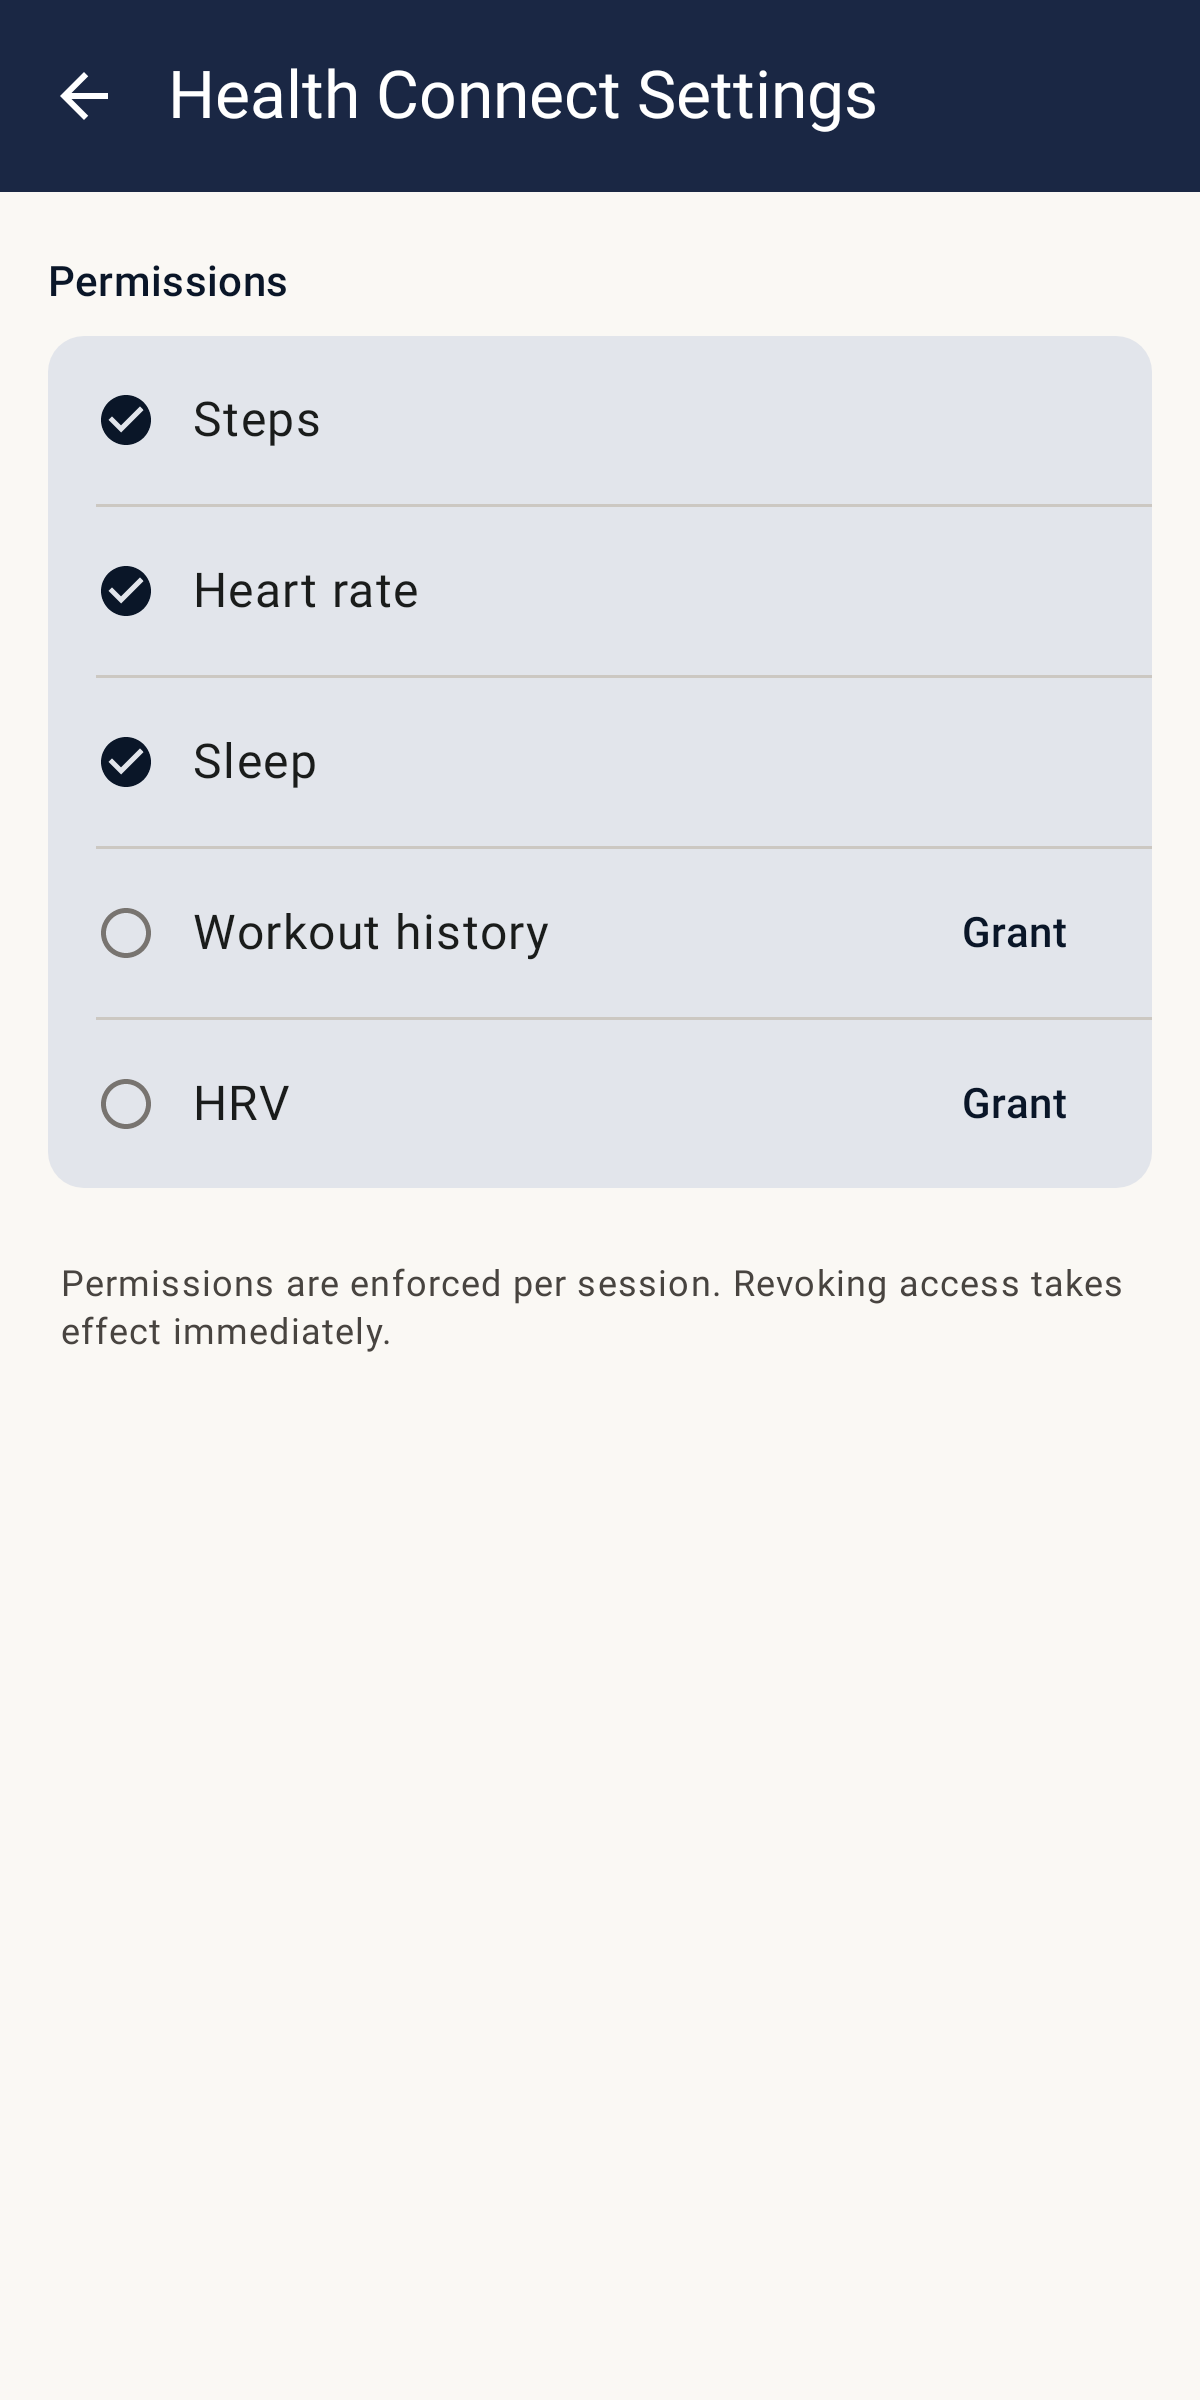
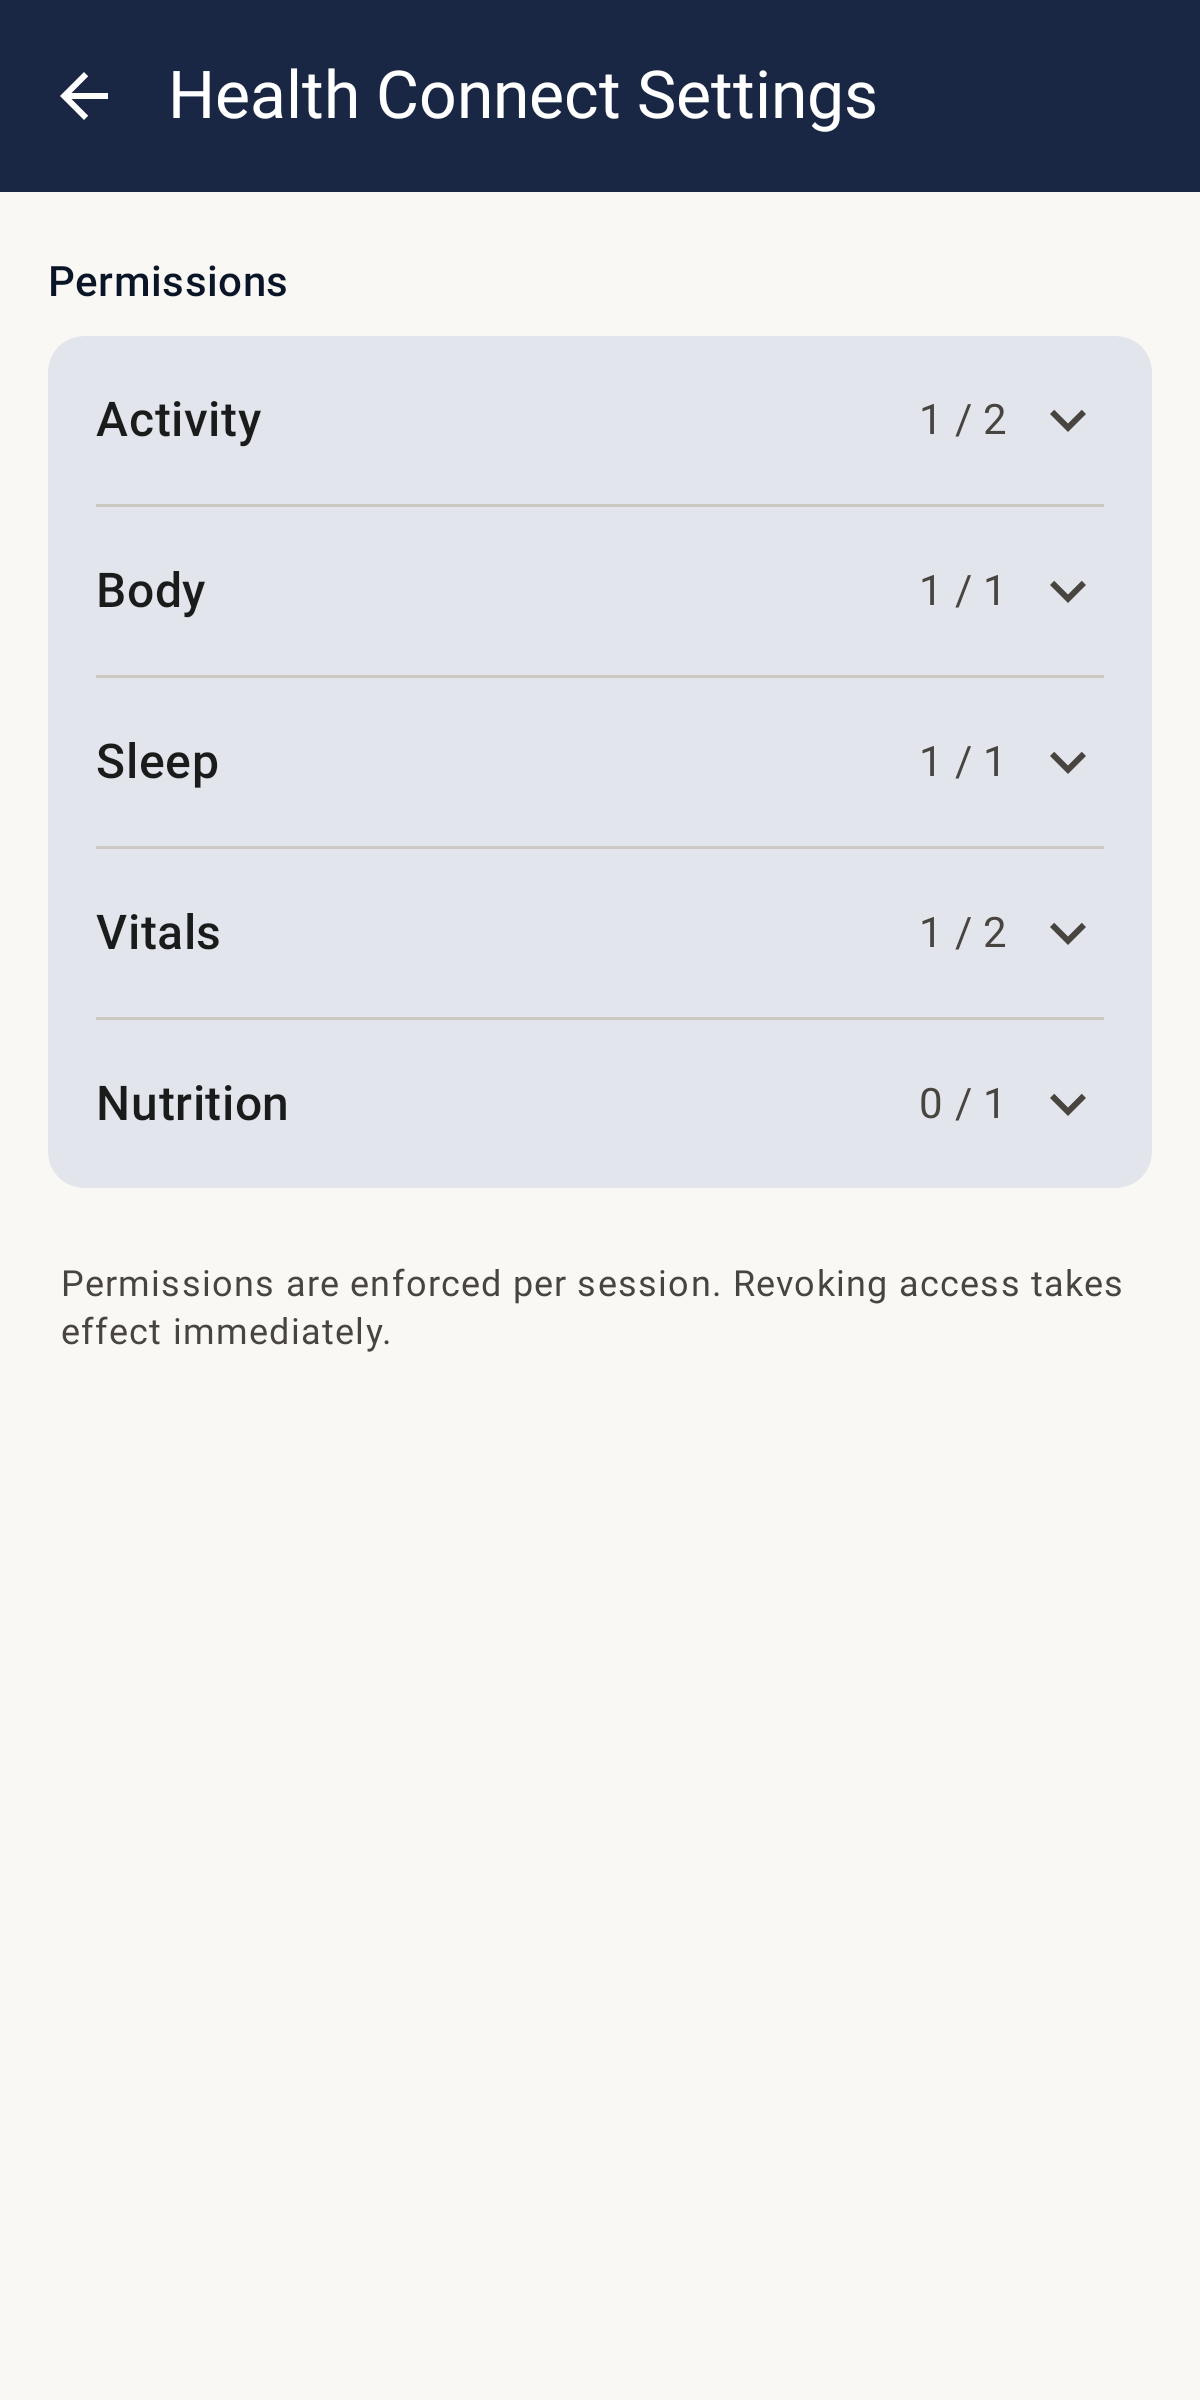
Fix #60: Make HealthConnect settings permissions list collapsible (default collapsed)
Group permissions by RecordCategory (Activity, Body, Sleep, Vitals,
Nutrition) and render each category as a clickable header row with a
granted/total count and an ExpandLess/ExpandMore chevron. All sections
default to collapsed so the screen stays compact; tapping a header
reveals that section's permission rows with a vertical expand animation.

- Add category field to HealthPermission (default ACTIVITY for backwards
  compatibility).
- Group permissions in HealthConnectSettingsScreen via toSortedMap on
  RecordCategory ordinal so the order is stable.
- Per-section expanded state held in a remembered mutableStateMapOf
  keyed by category.
- Update screenshot state to cover all five categories and regenerate
  goldens.

diff --git a/app/src/main/java/com/rousecontext/app/ui/screens/HealthConnectSettingsScreen.kt b/app/src/main/java/com/rousecontext/app/ui/screens/HealthConnectSettingsScreen.kt
@@ -3,17 +3,23 @@ package com.rousecontext.app.ui.screens
 import androidx.compose.animation.AnimatedVisibility
 import androidx.compose.animation.expandVertically
 import androidx.compose.animation.shrinkVertically
+import androidx.compose.foundation.clickable
 import androidx.compose.foundation.layout.Column
+import androidx.compose.foundation.layout.Row
 import androidx.compose.foundation.layout.Spacer
+import androidx.compose.foundation.layout.defaultMinSize
 import androidx.compose.foundation.layout.fillMaxSize
 import androidx.compose.foundation.layout.fillMaxWidth
 import androidx.compose.foundation.layout.height
 import androidx.compose.foundation.layout.padding
+import androidx.compose.foundation.layout.width
 import androidx.compose.foundation.rememberScrollState
 import androidx.compose.foundation.verticalScroll
 import androidx.compose.material.icons.Icons
 import androidx.compose.material.icons.automirrored.filled.ArrowBack
 import androidx.compose.material.icons.filled.CheckCircle
+import androidx.compose.material.icons.filled.ExpandLess
+import androidx.compose.material.icons.filled.ExpandMore
 import androidx.compose.material.icons.filled.RadioButtonUnchecked
 import androidx.compose.material3.Card
 import androidx.compose.material3.ExperimentalMaterial3Api
@@ -27,9 +33,10 @@ import androidx.compose.material3.TopAppBar
 import androidx.compose.runtime.Composable
 import androidx.compose.runtime.Immutable
 import androidx.compose.runtime.getValue
-import androidx.compose.runtime.mutableStateOf
+import androidx.compose.runtime.mutableStateMapOf
 import androidx.compose.runtime.remember
 import androidx.compose.runtime.setValue
+import androidx.compose.ui.Alignment
 import androidx.compose.ui.Modifier
 import androidx.compose.ui.tooling.preview.Preview
 import androidx.compose.ui.unit.dp
@@ -38,10 +45,15 @@ import com.rousecontext.app.ui.components.ListRowWithIcon
 import com.rousecontext.app.ui.components.SectionHeader
 import com.rousecontext.app.ui.components.appBarColors
 import com.rousecontext.app.ui.theme.RouseContextTheme
+import com.rousecontext.mcp.health.RecordCategory
 import com.rousecontext.mcp.health.RecordTypeRegistry
 
 @Immutable
-data class HealthPermission(val name: String, val granted: Boolean)
+data class HealthPermission(
+    val name: String,
+    val granted: Boolean,
+    val category: RecordCategory = RecordCategory.ACTIVITY
+)
 
 @Immutable
 data class HealthConnectSettingsState(val permissions: List<HealthPermission> = emptyList())
@@ -77,51 +89,41 @@ fun HealthConnectSettingsScreen(
 
             SectionHeader("Permissions")
 
-            val collapsedCount = 3
-            var expanded by remember { mutableStateOf(false) }
-            val showToggle = state.permissions.size > collapsedCount
-            val visiblePermissions = if (expanded || !showToggle) {
+            val grouped = remember(state.permissions) {
                 state.permissions
-            } else {
-                state.permissions.take(collapsedCount)
+                    .groupBy { it.category }
+                    .toSortedMap(compareBy { it.ordinal })
             }
+
+            // Per-section expanded state. Default: all collapsed.
+            val expandedState = remember { mutableStateMapOf<RecordCategory, Boolean>() }
 
             Card(modifier = Modifier.fillMaxWidth()) {
                 Column {
-                    visiblePermissions.forEachIndexed { index, permission ->
-                        PermissionRow(permission, onGrantPermission)
-                        if (index < visiblePermissions.lastIndex) {
-                            ListDivider()
-                        }
-                    }
-                    AnimatedVisibility(
-                        visible = expanded && showToggle,
-                        enter = expandVertically(),
-                        exit = shrinkVertically()
-                    ) {
-                        Column {
-                            state.permissions.drop(collapsedCount)
-                                .forEachIndexed { index, permission ->
+                    val entries = grouped.entries.toList()
+                    entries.forEachIndexed { index, (category, permissions) ->
+                        val expanded = expandedState[category] ?: false
+                        CategoryHeader(
+                            category = category,
+                            grantedCount = permissions.count { it.granted },
+                            totalCount = permissions.size,
+                            expanded = expanded,
+                            onToggle = { expandedState[category] = !expanded }
+                        )
+                        AnimatedVisibility(
+                            visible = expanded,
+                            enter = expandVertically(),
+                            exit = shrinkVertically()
+                        ) {
+                            Column {
+                                permissions.forEach { permission ->
                                     ListDivider()
                                     PermissionRow(permission, onGrantPermission)
                                 }
+                            }
                         }
-                    }
-                    if (showToggle) {
-                        ListDivider()
-                        TextButton(
-                            onClick = { expanded = !expanded },
-                            modifier = Modifier
-                                .fillMaxWidth()
-                                .padding(horizontal = 8.dp)
-                        ) {
-                            Text(
-                                if (expanded) {
-                                    "Show less"
-                                } else {
-                                    "Show all (${state.permissions.size})"
-                                }
-                            )
+                        if (index < entries.lastIndex) {
+                            ListDivider()
                         }
                     }
                 }
@@ -139,6 +141,41 @@ fun HealthConnectSettingsScreen(
 
             Spacer(modifier = Modifier.height(24.dp))
         }
+    }
+}
+
+@Composable
+private fun CategoryHeader(
+    category: RecordCategory,
+    grantedCount: Int,
+    totalCount: Int,
+    expanded: Boolean,
+    onToggle: () -> Unit
+) {
+    Row(
+        modifier = Modifier
+            .fillMaxWidth()
+            .clickable(onClick = onToggle)
+            .defaultMinSize(minHeight = 56.dp)
+            .padding(horizontal = 16.dp),
+        verticalAlignment = Alignment.CenterVertically
+    ) {
+        Text(
+            text = category.value.replaceFirstChar { it.uppercase() },
+            style = MaterialTheme.typography.titleMedium,
+            modifier = Modifier.weight(1f)
+        )
+        Text(
+            text = "$grantedCount / $totalCount",
+            style = MaterialTheme.typography.bodyMedium,
+            color = MaterialTheme.colorScheme.onSurfaceVariant
+        )
+        Spacer(modifier = Modifier.width(8.dp))
+        Icon(
+            imageVector = if (expanded) Icons.Filled.ExpandLess else Icons.Filled.ExpandMore,
+            contentDescription = if (expanded) "Collapse" else "Expand",
+            tint = MaterialTheme.colorScheme.onSurfaceVariant
+        )
     }
 }
 
@@ -180,7 +217,8 @@ fun HealthConnectSettingsPreview() {
                 permissions = RecordTypeRegistry.allTypes.mapIndexed { index, info ->
                     HealthPermission(
                         name = info.displayName,
-                        granted = index < 3
+                        granted = index < 3,
+                        category = info.category
                     )
                 }
             )

diff --git a/app/src/test/java/com/rousecontext/app/ui/screenshots/ScreenScreenshotTest.kt b/app/src/test/java/com/rousecontext/app/ui/screenshots/ScreenScreenshotTest.kt
@@ -49,6 +49,7 @@ import com.rousecontext.app.ui.theme.RouseContextTheme
 import com.rousecontext.app.ui.viewmodels.NotificationSetupState
 import com.rousecontext.app.ui.viewmodels.OutreachSetupState
 import com.rousecontext.app.ui.viewmodels.UsageSetupState
+import com.rousecontext.mcp.health.RecordCategory
 import org.junit.Rule
 import org.junit.Test
 import org.junit.runner.RunWith
@@ -695,11 +696,17 @@ class ScreenScreenshotTest {
 
     private fun healthConnectSettingsState() = HealthConnectSettingsState(
         permissions = listOf(
-            HealthPermission("Steps", granted = true),
-            HealthPermission("Heart rate", granted = true),
-            HealthPermission("Sleep", granted = true),
-            HealthPermission("Workout history", granted = false),
-            HealthPermission("HRV", granted = false)
+            HealthPermission("Steps", granted = true, category = RecordCategory.ACTIVITY),
+            HealthPermission(
+                "Workout history",
+                granted = false,
+                category = RecordCategory.ACTIVITY
+            ),
+            HealthPermission("Weight", granted = true, category = RecordCategory.BODY),
+            HealthPermission("Sleep", granted = true, category = RecordCategory.SLEEP),
+            HealthPermission("Heart rate", granted = true, category = RecordCategory.VITALS),
+            HealthPermission("HRV", granted = false, category = RecordCategory.VITALS),
+            HealthPermission("Hydration", granted = false, category = RecordCategory.NUTRITION)
         )
     )
 
